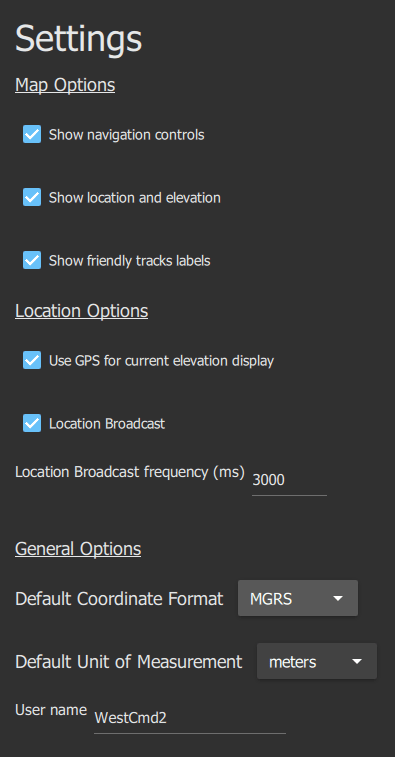
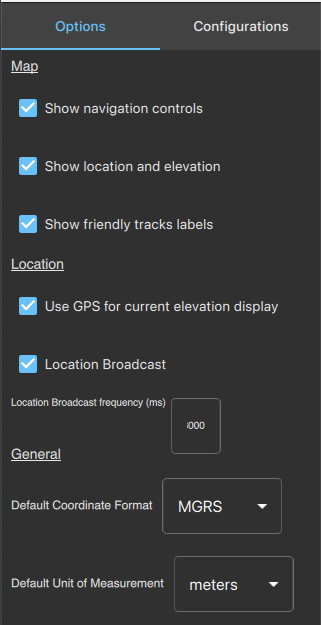
updates to readme. new images for settings view

diff --git a/docs/README.md b/docs/README.md
@@ -151,16 +151,16 @@ The tool categories include:
 
 |  |  |
 | :---: | --- |
-| ![](./images/dsa-icon-dsa-32.png) | Return command bar to start |
-| ![](./images/dsa-icon-map-tools-32.png) | [Map tools](#map-tools) (manage map elements) |
-| ![](./images/dsa-icon-create-reports-32.png) | [Create report tools](#create-report-tools) (such as observation reports) |
-| ![](./images/dsa-icon-analysis-tools-32.png) | [Analysis tools](#exploratory-visual-analysis) (viewshed, line of sight) |
-|  ![](./images/dsa-icon-alert-tools-32.png)  | [Alert tools](#alerts-and-conditions) (proximity, geofence, attribute-driven) |
+| ![](./images/dsa-icon-dsa-32.png)           | Return command bar to start |
+| ![](./images/dsa-icon-map-tools-32.png)     | [Map tools](#map-tools) (manage map elements) |
+| ![](./images/dsa-icon-create-reports-32.png)| [Create report tools](#create-report-tools) (such as observation reports) |
+| ![](./images/dsa-icon-analysis-tools-32.png)| [Analysis tools](#exploratory-visual-analysis) (viewshed, line of sight) |
+| ![](./images/dsa-icon-alert-tools-32.png)   | [Alert tools](#alerts-and-conditions) (proximity, geofence, attribute-driven) |
 | ![](./images/dsa-icon-markup-tools-32.png)  | [Markup tools](#markup-tools) (sketching) |
 
 ## Settings panel
 
-![](./images/dsa-tool-settings.png "Setting panel")<br>*Settings panel (DSA Vehicle)*
+![](./images/dsa-tool-settings.png "Setting panel") ![](./images/dsa-tool-configurations.png)<br>*Settings panel (DSA Vehicle)*
 
 The settings panel accesses the app's About information, app settings, and app close (for desktop platforms).
 
@@ -169,7 +169,7 @@ The settings panel accesses the app's About information, app settings, and app c
 
 <!-- TODO - Verify the following paragraph: Some settings are persisted, but ALL of them? -->
 
-When you change settings, they are persisted in the configuration file.
+When you change settings on the Options tab, they are persisted in the application's settings file. The Configurations tab will allow you to switch the active configuration (data + application settings) or download a sample configuration from Esri.
 
 ## Map tools
 
@@ -437,7 +437,10 @@ For convenience, you can try out the DSA apps compiled for [Windows] and [Androi
 
 You can customize aspects of the DSA apps via a configuration file. When the DSA app runs, the app will create a new configuration file if one is not found on local storage. When the app opens the configuration file, the file is read and its values used by the app for that run. Some settings may be changed at run time using the [Settings panel](#settings-panel). Those changes are persisted in the configuration file.
 
-The configuration file is located at `~/ArcGIS/Runtime/Data/DSA/DsaAppConfig.json`, where `~` is `%username%`/`C:/Users/<username>` on Windows, `$HOME` on Unix, and `<app_folder>/files` on Android where `<app_folder>` is path to the package name in your AndroidManifest.xml file (e.g. /data/data/com.esri.arcgisruntime.opensourceapps.DSA_Handheld_Qt).
+The configuration file is located at `~/ArcGIS/Runtime/Data/DSA/Default/DsaAppConfig.json`, where `~` is `%username%`/`C:/Users/<username>` on Windows, `$HOME` on Unix, and `<app_folder>/files` on Android where `<app_folder>` is path to the package name in your AndroidManifest.xml file (e.g. /data/data/com.esri.arcgisruntime.opensourceapps.DSA_Handheld_Qt).
+
+DSA also includes a file for making use of more than one configuration located at `~/ArcGIS/Runtime/Data/DSA/DsaConfigurations.json`. This file will also be created if one does not exist. To setup a new 'Configuration' for DSA, create a folder with the desired name at the same level as the 'Default' configuration folder. Place all your data in the new folder using the same structure described below. Make an update to the DsaConfiguration.json file to include your new folder as shown below. You do not need to provide a url for this configuration. Be sure to put the comma to separate this from the default configuration entity. And if you want your configuration to be loaded on startup, make sure to set the `selected` value to `true` for your new item and set the default entity's `selected` property to `false`(as shown in the highlighted section in the image).
+![](./images/dsa-tool-configurations-setup.png)
 
 The following lists some of the configuration settings that you can change.
 
@@ -465,22 +468,22 @@ The following lists some of the configuration settings that you can change.
 
  `*` - See the config file for details.
 
- `**` - Default data path: `~/ArcGIS/Runtime/Data/DSA`.
+ `**` - Default data path: `~/ArcGIS/Runtime/Data/DSA/Default`.
 
 # Add your own local data
 
-The default data path to local data is `~/ArcGIS/Runtime/Data/DSA`. If you wish to change this, reference the above table, and update the various paths.
+The default data path to local data is `~/ArcGIS/Runtime/Data/DSA/Default`. If you wish to change this, reference the above table, and update the various paths.
 
 The default data directory should look like this:
 
 ```xml
-~/ArcGIS/Runtime/Data/DSA/..
-                          BasemapData/
-                          OperationalData/
-                          Packages/
-                          SimulationData/
-                          ResourceData/
-                          ElevationData/
+~/ArcGIS/Runtime/Data/DSA/Default/..
+                                  BasemapData/
+                                  OperationalData/
+                                  Packages/
+                                  SimulationData/
+                                  ResourceData/
+                                  ElevationData/
 
 ```
 
